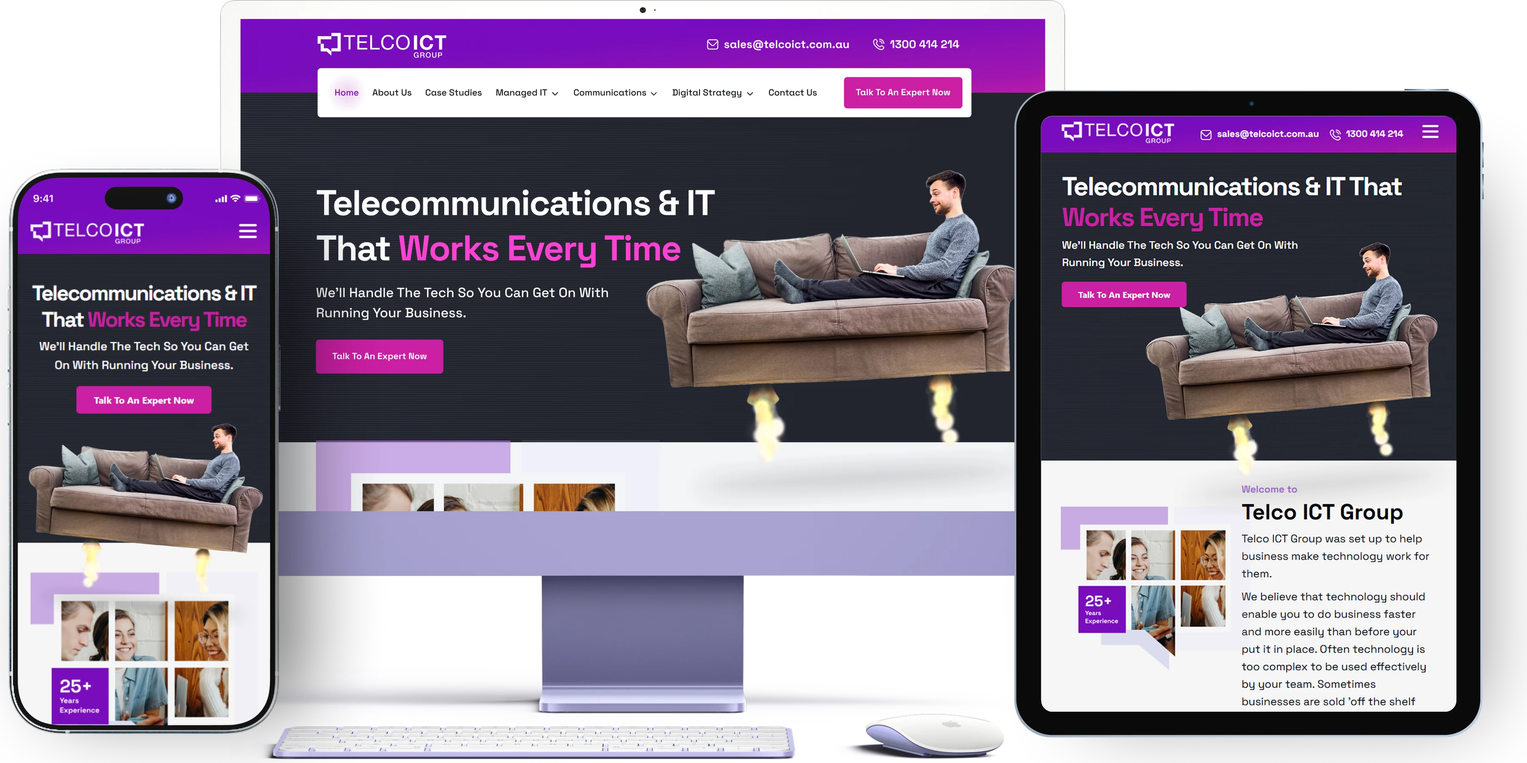
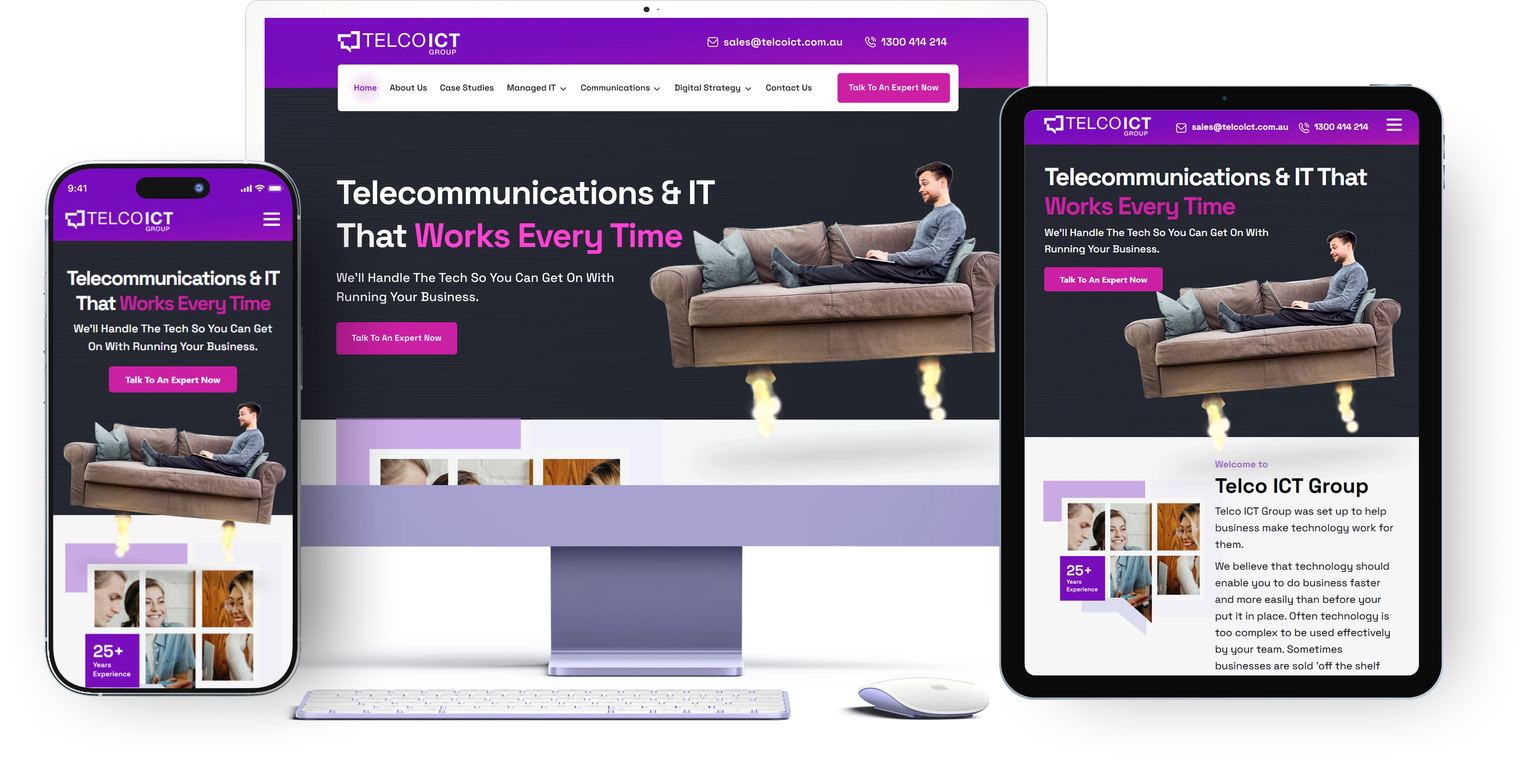
Work 3: pharmacy laptop scroll, Peers, Zigbis, new slide order with stats mixed in, shadow fixes, mobile cover layouts

diff --git a/src/components/organisms/QuodarcaScenes.tsx b/src/components/organisms/QuodarcaScenes.tsx
@@ -1,12 +1,45 @@
 "use client";
 
 import { useEffect, useRef, useState } from "react";
+import { motion, type Easing } from "motion/react";
 import styles from "./QuodarcaScenes.module.css";
 
 const IMG = "/images/work/quodarca";
 
 // idle: not playing, but its background is on show (the film's first frame, before the panel scrolls into view), so the art can rise into it
 export type SceneProps = { active: boolean; holdMs?: number; idle?: boolean; focus?: [number, number] };
+
+// Phone layout for the scenes that are one picture of devices on white: the picture at the full width of the panel, centred, with the same entrance as on desktop (fades in over 0.8 s while easing from 106% down to 100%).
+const PIC_EASE: Easing = [0.23, 1, 0.32, 1];
+export function PortraitPicture({ src, alt, active }: { src: string; alt: string; active: boolean }) {
+  return (
+    <div className={styles.pPic}>
+      <motion.img
+        alt={alt}
+        src={src}
+        initial={{ opacity: 0, scale: 1.06 }}
+        animate={active ? { opacity: 1, scale: 1 } : { opacity: 0, scale: 1.06 }}
+        transition={{ opacity: { duration: 0.8, ease: PIC_EASE }, scale: { duration: 4.2, ease: PIC_EASE } }}
+      />
+    </div>
+  );
+}
+
+// Phone layout that fills the panel with one picture (cropping what does not fit): same entrance as PortraitPicture. position is where the picture is anchored when cropped.
+export function PortraitCover({ src, alt, active, position = "50% 50%" }: { src: string; alt: string; active: boolean; position?: string }) {
+  return (
+    <div className={styles.pPic}>
+      <motion.img
+        alt={alt}
+        src={src}
+        style={{ width: "100%", height: "100%", objectFit: "cover", objectPosition: position }}
+        initial={{ opacity: 0, scale: 1.06 }}
+        animate={active ? { opacity: 1, scale: 1 } : { opacity: 0, scale: 1.06 }}
+        transition={{ opacity: { duration: 0.8, ease: PIC_EASE }, scale: { duration: 4.2, ease: PIC_EASE } }}
+      />
+    </div>
+  );
+}
 
 // A 390 x 514 drawing board for the phone layouts of a scene (its portrait prop): what is drawn on it is scaled, as one piece, to fit the panel.
 export function PortraitCanvas({ children }: { children: React.ReactNode }) {
@@ -17,10 +50,10 @@ export function PortraitCanvas({ children }: { children: React.ReactNode }) {
 // film's other slides (see .film-slide), and its parts only animate while it is the active one.
 // base/fill/backdrop paint a coloured scene's background across the whole panel (not just the 16:9 stage): base is the colour, fill is a picture that
 // covers the panel, backdrop is artwork placed in stage coordinates that may spill past the stage edges.
-export function Scene({ active, holdMs = 0, idle = false, focus = [0.5, 0.5], portrait, bars, stage, base, fill, cover, corner, anchors, bleed, backdrop, children }: SceneProps & { portrait?: React.ReactNode; bars: string; stage: "welcome" | "white" | "purple"; base?: string; fill?: React.ReactNode; cover?: React.ReactNode; corner?: React.ReactNode; bleed?: boolean; anchors?: { tl?: React.ReactNode; tr?: React.ReactNode; bl?: React.ReactNode; br?: React.ReactNode }; backdrop?: React.ReactNode; children?: React.ReactNode }) {
+export function Scene({ active, holdMs = 0, idle = false, focus = [0.5, 0.5], portrait, bottomAnchor = false, bars, stage, base, fill, cover, corner, anchors, bleed, backdrop, children }: SceneProps & { portrait?: React.ReactNode; bottomAnchor?: boolean; bars: string; stage: "welcome" | "white" | "purple"; base?: string; fill?: React.ReactNode; cover?: React.ReactNode; corner?: React.ReactNode; bleed?: boolean; anchors?: { tl?: React.ReactNode; tr?: React.ReactNode; bl?: React.ReactNode; br?: React.ReactNode }; backdrop?: React.ReactNode; children?: React.ReactNode }) {
   const frame = useRef<HTMLDivElement>(null);
   const [fx, fy] = focus;
-  const [fit, setFit] = useState({ scale: 1, tx: 0, ty: 0, narrow: false, pu: 1, pw: 0 }); // scale of the 1920 x 1080 stage and how far it is shifted from the panel centre (px)
+  const [fit, setFit] = useState({ scale: 1, tx: 0, ty: 0, narrow: false, pu: 1, pw: 0, psw: 1920, psh: 1080 }); // scale of the 1920 x 1080 stage and how far it is shifted from the panel centre (px)
   useEffect(() => {
     const el = frame.current!;
     const measure = () => {
@@ -30,26 +63,27 @@ export function Scene({ active, holdMs = 0, idle = false, focus = [0.5, 0.5], po
         const s = Math.max(w / 1920, h / 1080);
         const lim = (stageSize: number, panel: number) => Math.max(0, (stageSize * s - panel) / 2);
         const clamp = (v: number, m: number) => Math.max(-m, Math.min(m, v));
-        setFit({ narrow: true, pu: Math.min(w / 390, h / 514), pw: w - 32, scale: s, tx: clamp((0.5 - fx) * 1920 * s, lim(1920, w)), ty: clamp((0.5 - fy) * 1080 * s, lim(1080, h)) });
+        setFit({ narrow: true, psw: 1920, psh: 1080, pu: Math.min(w / 390, h / 514), pw: w - 32, scale: s, tx: clamp((0.5 - fx) * 1920 * s, lim(1920, w)), ty: clamp((0.5 - fy) * 1080 * s, lim(1080, h)) });
         return;
       }
-      setFit({ narrow: false, pu: 1, pw: 0, scale: Math.min(w / 1920, h / 1080), tx: 0, ty: 0 });
+      const fitS = Math.min(w / 1920, h / 1080);
+      setFit({ narrow: false, pu: 1, pw: 0, psw: w / fitS, psh: h / fitS, scale: fitS, tx: 0, ty: bottomAnchor ? (h - 1080 * fitS) / 2 : 0 }); // psw, psh: the size of the panel in stage px, for scenes that grow to fill it
     };
     measure();
     const ro = new ResizeObserver(measure);
     ro.observe(el);
     return () => ro.disconnect();
-  }, [fx, fy]);
+  }, [fx, fy, bottomAnchor]);
   return (
     <div className={`sloop film-slide${active || idle ? " on" : ""}`} style={{ transitionDelay: `${holdMs}ms`, background: bars }} aria-hidden={!active}>
       <div ref={frame} data-active={active} style={stage === "white" ? { background: "#fff" } : base ? { background: base } : undefined} className={`${styles.frame}${active ? ` ${styles.on}` : ""}`}>
         {fill && <div className={styles.fill}>{fill}</div>}
         {cover && <div className={styles.cover}>{cover}</div>}
-        {anchors && ((["tl", "tr", "bl", "br"] as const).map((k) => anchors[k] && <div key={k} className={`${styles.anchor} ${styles[k]}`} style={{ transform: `scale(${fit.scale})` }}>{anchors[k]}</div>))}
+        {anchors && !fit.narrow && ((["tl", "tr", "bl", "br"] as const).map((k) => anchors[k] && <div key={k} className={`${styles.anchor} ${styles[k]}`} style={{ transform: `scale(${fit.scale})` }}>{anchors[k]}</div>))}
         {corner && <div className={styles.corner} style={{ bottom: 20 * fit.scale, transform: `scale(${fit.scale})` }}>{corner}</div>}
         {backdrop && <div className={styles.stageLayer} style={{ transform: `translate(-50%, -50%) translate(${fit.tx}px, ${fit.ty}px) scale(${fit.scale})` }}>{backdrop}</div>}
         {portrait && fit.narrow && <div className={styles.portrait} style={{ "--pu": fit.pu, "--pw": fit.pw } as React.CSSProperties}>{portrait}</div>}
-        <div hidden={!!portrait && fit.narrow} className={`${styles.stage} ${styles[stage]}${bleed ? ` ${styles.bleed}` : ""}`} style={{ transform: `translate(-50%, -50%) translate(${fit.tx}px, ${fit.ty}px) scale(${fit.scale})` }}>
+        <div hidden={!!portrait && fit.narrow} className={`${styles.stage} ${styles[stage]}${bleed ? ` ${styles.bleed}` : ""}`} style={{ transform: `translate(-50%, -50%) translate(${fit.tx}px, ${fit.ty}px) scale(${fit.scale})`, "--psw": fit.psw, "--psh": fit.psh } as React.CSSProperties}>
           {children}
         </div>
       </div>

diff --git a/src/components/organisms/ZigbisScene.tsx b/src/components/organisms/ZigbisScene.tsx
@@ -1,0 +1,52 @@
+"use client";
+
+import { motion, type Easing } from "motion/react";
+import { Scene, type SceneProps } from "./QuodarcaScenes";
+
+/* eslint-disable @next/next/no-img-element */
+
+const EASE: Easing = [0.23, 1, 0.32, 1]; // --ease in globals.css
+const IMG = "/images/work/zigbis";
+
+// "Zigbis" (Figma frame 3027:978): nine tilted windows onto two full-length screenshots of the Zigbis home page, tiled across the slide. Standing still.
+// Every number is from the Figma file (1920 x 1080 frame): wrap = the window's box (left, top, width, height) before it is turned; inner = the window itself, turned -13 degrees about its
+// centre; pos = where the screenshot sits inside the window, as percentages of the window.
+type Panel = { wrap: [number, number, number, number]; inner: [number, number]; img: "page-a" | "page-b"; pos: { h: number; l: number; t: number; w: number } };
+const PANELS: Panel[] = [
+  { wrap: [-475.04, -84.67, 988.398, 822.828], inner: [865.57, 644.639], img: "page-a", pos: { h: 444.99, l: -12.41, t: -195.26, w: 120.03 } },
+  { wrap: [311.65, -598.46, 988.398, 822.828], inner: [865.57, 644.639], img: "page-b", pos: { h: 399.21, l: -4.32, t: -234.06, w: 107.68 } },
+  { wrap: [857.35, -960.24, 988.398, 822.828], inner: [865.57, 644.639], img: "page-b", pos: { h: 444.99, l: -9.85, t: -0.31, w: 120.03 } },
+  { wrap: [-325.95, 557.75, 988.398, 822.828], inner: [865.57, 644.639], img: "page-a", pos: { h: 360.55, l: 14.97, t: -267.59, w: 97.25 } },
+  { wrap: [460.74, 44.97, 988.398, 822.828], inner: [865.57, 644.639], img: "page-b", pos: { h: 416.89, l: -6.02, t: 0.37, w: 112.45 } },
+  { wrap: [1272.43, -369.82, 988.398, 822.828], inner: [865.57, 644.639], img: "page-b", pos: { h: 444.99, l: -9.49, t: -206.6, w: 120.03 } },
+  { wrap: [-451.87, 1299.18, 988.398, 822.828], inner: [865.57, 644.639], img: "page-b", pos: { h: 444.99, l: -9.85, t: -0.31, w: 120.03 } },
+  { wrap: [609.83, 689.39, 988.398, 822.828], inner: [865.57, 644.639], img: "page-b", pos: { h: 444.99, l: -9.7, t: -156.59, w: 120.03 } },
+  { wrap: [1421, 276, 992.49, 840.552], inner: [865.57, 662.83], img: "page-a", pos: { h: 444.99, l: -22.59, t: -54.01, w: 120.03 } },
+];
+
+export function ZigbisScene(props: SceneProps) {
+  return (
+    <Scene {...props} bars="#ffffff" stage="purple" base="#ffffff" bleed>
+      <motion.div
+        style={{ position: "absolute", left: 0, top: 0, width: 1920, height: 1080 }}
+        initial={{ opacity: 0, scale: 1.06 }}
+        animate={props.active ? { opacity: 1, scale: 1 } : { opacity: 0, scale: 1.06 }}
+        transition={{ opacity: { duration: 0.8, ease: EASE }, scale: { duration: 4.2, ease: EASE } }}
+      >
+        {PANELS.map((p, i) => (
+          <div key={i} style={{ position: "absolute", left: p.wrap[0], top: p.wrap[1], width: p.wrap[2], height: p.wrap[3], display: "flex", alignItems: "center", justifyContent: "center" }}>
+            <div style={{ flex: "none", transform: "rotate(-13deg)" }}>
+              <div style={{ position: "relative", width: p.inner[0], height: p.inner[1], overflow: "hidden" }}>
+                <img
+                  alt={i === 0 ? "The Zigbis hair and beauty website, shown in tilted windows." : ""}
+                  src={`${IMG}/${p.img}.webp`}
+                  style={{ position: "absolute", maxWidth: "none", height: `${p.pos.h}%`, left: `${p.pos.l}%`, top: `${p.pos.t}%`, width: `${p.pos.w}%` }}
+                />
+              </div>
+            </div>
+          </div>
+        ))}
+      </motion.div>
+    </Scene>
+  );
+}

diff --git a/src/components/organisms/Chapters.tsx b/src/components/organisms/Chapters.tsx
@@ -12,6 +12,9 @@ import { KeysboroughScene } from "./KeysboroughScene";
 import { SpoonfulScene } from "./SpoonfulScene";
 import { WonderPiesScene } from "./WonderPiesScene";
 import { TelcoIctScene } from "./TelcoIctScene";
+import { PharmacyScene } from "./PharmacyScene";
+import { PeersScene } from "./PeersScene";
+import { ZigbisScene } from "./ZigbisScene";
 import { DesignSystemScene } from "./DesignSystemScene";
 import { ProductFeatures } from "./ProductFeatures";
 import type { FilmClip, FilmItem, FilmSlide } from "@/types/film";
@@ -25,7 +28,7 @@ const ease = (t: number) => 1 - Math.pow(1 - t, 3);
 // `run` changes whenever the current segment starts over, so its fill restarts.
 // What the bar sits on, so it can be white on dark backgrounds and black on light ones.
 type Tone = "light" | "dark";
-const SCENE_TONE: Record<string, Tone> = { welcome: "dark", "process-challenges": "light", approach: "light", "design-system": "light", "product-features": "dark", "projects-delivered": "light", zerogaspi: "light", keysborough: "light", spoonful: "light", wonderpies: "light", telcoict: "light" };
+const SCENE_TONE: Record<string, Tone> = { welcome: "dark", "process-challenges": "light", approach: "light", "design-system": "light", "product-features": "dark", "projects-delivered": "light", zerogaspi: "light", keysborough: "light", spoonful: "light", wonderpies: "light", telcoict: "light", pharmacy: "light", peers: "dark", zigbis: "light" };
 const toneOfColour = (hex: string): Tone => {
   const m = /^#?([0-9a-f]{6})$/i.exec(hex);
   if (!m) return "light";
@@ -304,6 +307,9 @@ function ChapterFilm({ items: all, poster }: { items: FilmItem[]; poster: string
           if (it.id === "approach") return <ApproachScene key={i} active={active} holdMs={holdMs} />;
           if (it.id === "wonderpies") return <WonderPiesScene key={i} active={active} holdMs={holdMs} />;
           if (it.id === "telcoict") return <TelcoIctScene key={i} active={active} holdMs={holdMs} />;
+          if (it.id === "pharmacy") return <PharmacyScene key={i} active={active} holdMs={holdMs} />;
+          if (it.id === "peers") return <PeersScene key={i} active={active} holdMs={holdMs} />;
+          if (it.id === "zigbis") return <ZigbisScene key={i} active={active} holdMs={holdMs} />;
           if (it.id === "spoonful") return <SpoonfulScene key={i} active={active} holdMs={holdMs} />;
           if (it.id === "keysborough") return <KeysboroughScene key={i} active={active} holdMs={holdMs} />;
           if (it.id === "zerogaspi") return <ZeroGaspiScene key={i} active={active} holdMs={holdMs} />;

diff --git a/src/components/organisms/PharmacyScene.tsx b/src/components/organisms/PharmacyScene.tsx
@@ -1,0 +1,54 @@
+"use client";
+
+import { motion, type Easing } from "motion/react";
+import { Scene, type SceneProps } from "./QuodarcaScenes";
+import styles from "./PharmacyScene.module.css";
+
+/* eslint-disable @next/next/no-img-element */
+
+const EASE: Easing = [0.23, 1, 0.32, 1]; // --ease in globals.css
+const IMG = "/images/work/pharmacy";
+
+// The whole Specialist Clinic Pharmacy home page scrolling by itself inside a laptop (the laptop picture is the base; the page is Figma frame 59:88): the page sits behind the
+// mockup, which has its screen cut out, and scrolls from the top of the page to the bottom while the laptop stays as it is.
+function Mock() {
+  return (
+    <div className={styles.mock}>
+      <div className={styles.win}><img className={styles.page} alt="The Specialist Clinic Pharmacy home page, scrolling from the top banner to the footer." src={`${IMG}/page.webp`} /></div>
+      <img className={styles.frame} alt="" src={`${IMG}/mockup.webp`} />
+    </div>
+  );
+}
+
+export function PharmacyScene(props: SceneProps) {
+  return (
+    <Scene
+      {...props}
+      bars="#ffffff"
+      stage="purple"
+      base="#ffffff"
+      bleed
+      portrait={
+        <div className={styles.pBox}>
+          <motion.div
+            className={styles.pMock}
+            initial={{ opacity: 0, scale: 1.06 }}
+            animate={props.active ? { opacity: 1, scale: 1 } : { opacity: 0, scale: 1.06 }}
+            transition={{ opacity: { duration: 0.8, ease: EASE }, scale: { duration: 4.2, ease: EASE } }}
+          >
+            <Mock />
+          </motion.div>
+        </div>
+      }
+    >
+      <motion.div
+        className={styles.stageMock}
+        initial={{ opacity: 0, scale: 1.06 }}
+        animate={props.active ? { opacity: 1, scale: 1 } : { opacity: 0, scale: 1.06 }}
+        transition={{ opacity: { duration: 0.8, ease: EASE }, scale: { duration: 4.2, ease: EASE } }}
+      >
+        <Mock />
+      </motion.div>
+    </Scene>
+  );
+}

diff --git a/src/components/organisms/PeersScene.tsx b/src/components/organisms/PeersScene.tsx
@@ -1,0 +1,35 @@
+"use client";
+
+import { motion, type Easing } from "motion/react";
+import { PortraitCover, Scene, type SceneProps } from "./QuodarcaScenes";
+
+/* eslint-disable @next/next/no-img-element */
+
+const EASE: Easing = [0.23, 1, 0.32, 1]; // --ease in globals.css
+const IMG = "/images/work/peers";
+
+// "Peers" (Figma frame 285:27619): the learning platform on a desktop and a phone, standing still (no scrolling), exactly as rendered in the design (the glassy rims
+// of the devices are effects that only the whole frame carries). The background layer is also its own picture and covers the whole panel at any shape, behind the frame.
+// On a phone the frame covers the panel too, cropped at the sides around the devices.
+export function PeersScene(props: SceneProps) {
+  const alt = "The Peers learning platform: assessment results on a desktop and on a phone.";
+  const enter = {
+    initial: { opacity: 0, scale: 1.06 },
+    animate: props.active ? { opacity: 1, scale: 1 } : { opacity: 0, scale: 1.06 },
+    transition: { opacity: { duration: 0.8, ease: EASE }, scale: { duration: 4.2, ease: EASE } },
+  };
+  return (
+    <Scene
+      {...props}
+      bars="#0a1a5c"
+      stage="purple"
+      base="#0a1a5c"
+      bleed
+      bottomAnchor
+      cover={<img alt="" src={`${IMG}/bg.webp`} />}
+      portrait={<PortraitCover active={props.active} alt={alt} src={`${IMG}/frame.webp`} position="62% 50%" />}
+    >
+      <motion.img alt={alt} src={`${IMG}/frame.webp`} style={{ position: "absolute", left: 0, top: 0, width: 1920, height: 1080 }} {...enter} />
+    </Scene>
+  );
+}

diff --git a/src/data/site.ts b/src/data/site.ts
@@ -114,15 +114,20 @@ export const chapters = [
     film: {
       poster: "", // no poster: the film opens on a scene, and a picture of the phone would show before it plays
       items: [
+        // apps and products, then a figure
         { type: "scene", id: "zerogaspi", dur: 12500 },
         { type: "clip", src: "/images/work/applied-video/applied-electronics.mp4", bg: "#324560", fit: "cover" },
         { type: "clip", src: "/images/work/vyno/vyno-app.mp4", bg: "#017ac3", fit: "cover" },
-        { type: "scene", id: "keysborough", dur: 4000 },
         { type: "scene", id: "spoonful", dur: 4000 },
-        { type: "scene", id: "wonderpies", dur: 4000 },
-        { type: "scene", id: "telcoict", dur: 4000 },
+        { type: "scene", id: "peers", dur: 4000 },
         { type: "slide", bg: "#302f7f", dark: true, dur: 3000, kicker: "The reach", giant: 50, suffix: "+", tag: "Australian brands" },
+        // more websites, a figure in the middle and one at the end
+        { type: "scene", id: "keysborough", dur: 4000 },
+        { type: "scene", id: "wonderpies", dur: 4000 },
         { type: "slide", bg: "#ffffff", dark: false, dur: 3000, kicker: "The result", giant: 3, suffix: "x", tag: "Conversion rate" },
+        { type: "scene", id: "telcoict", dur: 4000 },
+        { type: "scene", id: "pharmacy", dur: 10000 },
+        { type: "scene", id: "zigbis", dur: 4000 },
         { type: "slide", bg: "#24243b", dark: true, dur: 3000, kicker: "The growth", line: "2.5x", tag: "Online orders" },
       ] as FilmItem[],
     },

diff --git a/src/components/organisms/PharmacyScene.module.css b/src/components/organisms/PharmacyScene.module.css
@@ -1,0 +1,13 @@
+/* "Specialist Clinic Pharmacy": a desktop display whose screen shows the whole home page scrolling down by itself.
+   The mockup picture has its screen cut out; the page picture sits behind it in a window that matches the screen (percentages of the mockup picture), and slides up through it. */
+.stageMock { position: absolute; left: 10px; top: 62px; width: 1900px; } /* centred; 10% bigger than the 1728 px before */
+.mock { position: relative; width: 100%; aspect-ratio: 5492 / 2763; }
+.frame { position: absolute; inset: 0; width: 100%; height: 100%; display: block; pointer-events: none; }
+.win { position: absolute; left: 14.26%; top: 4.71%; width: 71.36%; height: 80.06%; clip-path: inset(0px 0px); container-type: size; background: #fff; }
+.page { display: block; width: 100%; height: auto; max-width: none; will-change: transform; transform: translateY(calc(100cqh - 100%)); } /* at rest the page is at its end, so the slide fading out shows the end of the scroll, not the start */
+[data-active="true"] .page { animation: pgScrollM 8.6s cubic-bezier(0.37, 0, 0.63, 1) 0.9s both; }
+@keyframes pgScrollM { from { transform: translateY(0); } to { transform: translateY(calc(100cqh - 100%)); } }
+
+/* phone: the display at the full width of the panel */
+.pBox { position: absolute; inset: 0; display: flex; align-items: center; justify-content: center; background: #fff; overflow: hidden; }
+.pMock { width: 110%; flex: none; }

diff --git a/src/components/organisms/QuodarcaScenes.module.css b/src/components/organisms/QuodarcaScenes.module.css
@@ -44,6 +44,8 @@
 /* phone layout of Welcome (see Scene's portrait prop): the wordmark across the top, the monitor under it, both using the full width instead of the 16:9 stage */
 .portrait { container-type: size; position: absolute; inset: 0; display: flex; flex-direction: column; align-items: center; justify-content: center; overflow: hidden; }
 /* the wordmark and monitor are about as tall as they are wide, so they are sized by whichever of the panel's width and height is the tighter: both always fit whole */
+.pPic { position: absolute; inset: 0; display: flex; align-items: center; justify-content: center; overflow: hidden; background: #fff; }
+.pPic img { display: block; width: 100%; height: auto; }
 .canvas { position: absolute; left: 50%; top: 50%; width: 390px; height: 514px; transform: translate(-50%, -50%) scale(var(--pu, 1)); display: flex; flex-direction: column; align-items: center; justify-content: center; }
 /* Projects delivered, phone: the desktop drawing (stage x 425-1496, y 5-980) scaled to the panel's width less 16px each side; --pw is that width in px */
 .pFitBox { position: absolute; left: 16px; top: calc(50% - 12px); width: calc(var(--pw) * 1px); height: calc(var(--pw) * 1px * 975 / 1071); transform: translateY(-50%); }

diff --git a/src/components/organisms/KeysboroughScene.tsx b/src/components/organisms/KeysboroughScene.tsx
@@ -1,7 +1,7 @@
 "use client";
 
 import { motion, type Easing } from "motion/react";
-import { Scene, type SceneProps } from "./QuodarcaScenes";
+import { PortraitCover, Scene, type SceneProps } from "./QuodarcaScenes";
 
 const EASE: Easing = [0.23, 1, 0.32, 1]; // --ease in globals.css
 
@@ -9,7 +9,7 @@ const EASE: Easing = [0.23, 1, 0.32, 1]; // --ease in globals.css
 // across the panel), with the same simple entrance as the Sred.io screens (work 1): it fades in over 0.8 s while easing from 106% down to 100% over 4.2 s.
 export function KeysboroughScene(props: SceneProps) {
   return (
-    <Scene {...props} bars="#ffffff" stage="purple" base="#ffffff">
+    <Scene {...props} bars="#ffffff" stage="purple" base="#ffffff" portrait={<PortraitCover active={props.active} alt="The Keysborough Veterinary Practice website on a desktop, a tablet and a phone." src="/images/work/keysborough/composite.webp" position="50% 100%" />}>
       <motion.img
         alt="The Keysborough Veterinary Practice website on a desktop, a tablet and a phone."
         src="/images/work/keysborough/composite.webp"

diff --git a/src/types/film.ts b/src/types/film.ts
@@ -3,5 +3,5 @@ export type FilmClip = { type: "clip"; src: string; bg: string; fit?: "cover" };
 // A stat slide between two scenes, in the style of the Sred.io beats: a small kicker, a big number (counting up) or line, and a short tag.
 export type FilmSlide = { type: "slide"; bg: string; image?: string; dark: boolean; dur: number; kicker?: string; logo?: { src: string; name: string }; giant?: number; suffix?: string; line?: string; tag?: string };
 // A scene drawn in code from the Figma file, instead of a video.
-export type FilmScene = { type: "scene"; id: "welcome" | "process-challenges" | "approach" | "design-system" | "product-features" | "projects-delivered" | "zerogaspi" | "keysborough" | "spoonful" | "wonderpies" | "telcoict"; dur: number };
+export type FilmScene = { type: "scene"; id: "welcome" | "process-challenges" | "approach" | "design-system" | "product-features" | "projects-delivered" | "zerogaspi" | "keysborough" | "spoonful" | "wonderpies" | "telcoict" | "pharmacy" | "peers" | "zigbis"; dur: number };
 export type FilmItem = FilmClip | FilmSlide | FilmScene;

diff --git a/src/components/organisms/TelcoIctScene.tsx b/src/components/organisms/TelcoIctScene.tsx
@@ -1,7 +1,7 @@
 "use client";
 
 import { motion, type Easing } from "motion/react";
-import { Scene, type SceneProps } from "./QuodarcaScenes";
+import { PortraitPicture, Scene, type SceneProps } from "./QuodarcaScenes";
 
 const EASE: Easing = [0.23, 1, 0.32, 1]; // --ease in globals.css
 
@@ -9,7 +9,7 @@ const EASE: Easing = [0.23, 1, 0.32, 1]; // --ease in globals.css
 // Sred.io screens (work 1): it fades in over 0.8 s while easing from 106% down to 100% over 4.2 s.
 export function TelcoIctScene(props: SceneProps) {
   return (
-    <Scene {...props} bars="#ffffff" stage="purple" base="#ffffff">
+    <Scene {...props} bars="#ffffff" stage="purple" base="#ffffff" portrait={<PortraitPicture active={props.active} alt="The Telco ICT Group website on a phone, a desktop and a tablet: telecommunications and IT that works every time." src="/images/work/telcoict/devices.webp" />}>
       <motion.img
         alt="The Telco ICT Group website on a phone, a desktop and a tablet: telecommunications and IT that works every time."
         src="/images/work/telcoict/devices.webp"

diff --git a/src/components/organisms/WonderPiesScene.tsx b/src/components/organisms/WonderPiesScene.tsx
@@ -1,7 +1,7 @@
 "use client";
 
 import { motion, type Easing } from "motion/react";
-import { Scene, type SceneProps } from "./QuodarcaScenes";
+import { PortraitPicture, Scene, type SceneProps } from "./QuodarcaScenes";
 
 const EASE: Easing = [0.23, 1, 0.32, 1]; // --ease in globals.css
 
@@ -9,7 +9,7 @@ const EASE: Easing = [0.23, 1, 0.32, 1]; // --ease in globals.css
 // Sred.io screens (work 1): it fades in over 0.8 s while easing from 106% down to 100% over 4.2 s.
 export function WonderPiesScene(props: SceneProps) {
   return (
-    <Scene {...props} bars="#ffffff" stage="purple" base="#ffffff">
+    <Scene {...props} bars="#ffffff" stage="purple" base="#ffffff" portrait={<PortraitPicture active={props.active} alt="The Wonder Pies website on a phone, a desktop and a tablet: handcrafted and gourmet pies and pastries." src="/images/work/wonderpies/devices.webp" />}>
       <motion.img
         alt="The Wonder Pies website on a phone, a desktop and a tablet: handcrafted and gourmet pies and pastries."
         src="/images/work/wonderpies/devices.webp"
